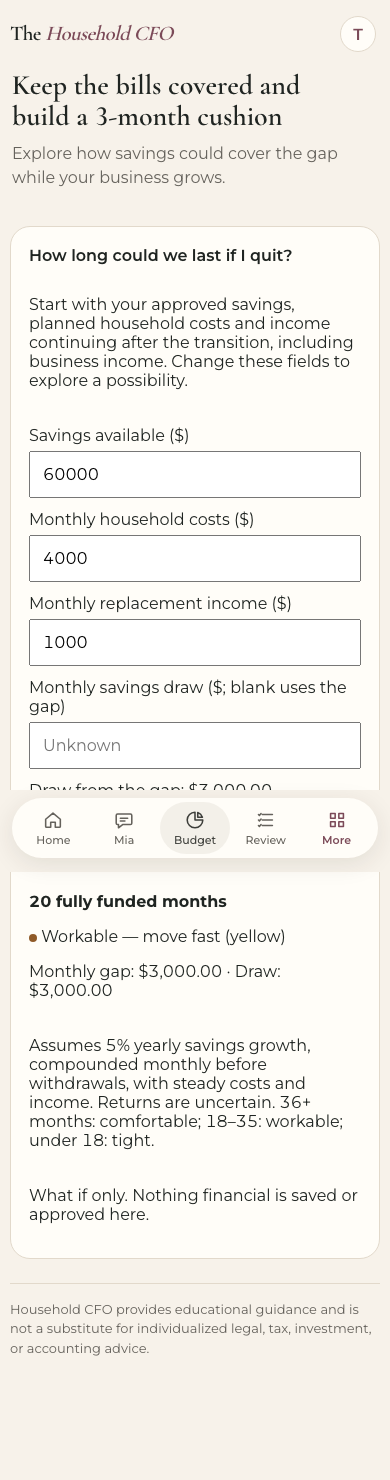
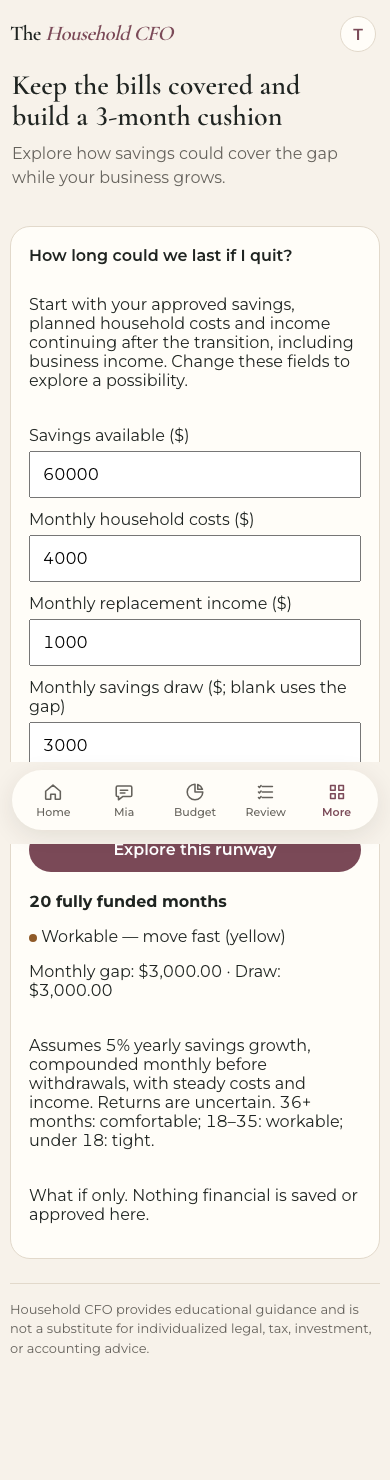
Keep the runway draw aligned with the participant's what-if inputs
Derive the savings draw from edited costs and replacement income until the
participant deliberately overrides it, preserving an explicit zero. Keep
Mia's transition guidance in chat so it cannot recommend a disabled tool.

Cover the normal edit journey, zero override and disabled-tool wording,
and refresh browser evidence against the production build.

Changed region(s): [[0.0615, 0.4973, 0.9231, 0.5905]]

diff --git a/web/src/components/FinanceScenarios.test.tsx b/web/src/components/FinanceScenarios.test.tsx
@@ -15,7 +15,7 @@ test('draw prefills from computed gap; edits use read-only scenario GET', async 
   fireEvent.change(screen.getByLabelText(/Savings available/), { target: { value: '70000' } })
   fireEvent.click(screen.getByRole('button', { name: 'Explore this runway' }))
   await waitFor(() => expect(screen.getByText('25 fully funded months')).toBeTruthy())
-  expect(api.fetchPrivateJson).toHaveBeenCalledWith('/api/v1/optionality?scenario=1&savings_cents=7000000&monthly_costs_cents=400000&replacement_income_cents=100000&monthly_draw_cents=300000')
+  expect(api.fetchPrivateJson).toHaveBeenCalledWith('/api/v1/optionality?scenario=1&savings_cents=7000000&monthly_costs_cents=400000&replacement_income_cents=100000')
 })
 test('unknowns do not render as zero and invalid input never requests', () => {
   render(<CfoScenarios initial={filter} />)
@@ -32,4 +32,22 @@ test('request failure preserves inputs and offers recovery', async () => {
   fireEvent.click(screen.getByRole('button', { name: 'Split this windfall' }))
   await waitFor(() => expect(screen.getByRole('alert').textContent).toMatch(/Try again/))
   expect((screen.getByLabelText(/Windfall amount/) as HTMLInputElement).value).toBe('123.45')
+})
+
+test('default draw follows edited costs and income while a deliberate zero override stays zero', async () => {
+  api.fetchPrivateJson.mockResolvedValue(runway)
+  render(<OptionalityScenario initial={{ ...runway, inputs: { ...runway.inputs, monthly_costs_cents: 439000, replacement_income_cents: 0 }, monthly_gap_cents: 439000, monthly_draw_cents: 439000 }} />)
+  const draw = screen.getByLabelText(/Monthly savings draw/) as HTMLInputElement
+  expect(draw.value).toBe('4390')
+  fireEvent.change(screen.getByLabelText(/Monthly household costs/), { target: { value: '4000' } })
+  fireEvent.change(screen.getByLabelText(/Monthly replacement income/), { target: { value: '1000' } })
+  expect(draw.value).toBe('3000')
+  fireEvent.click(screen.getByRole('button', { name: 'Explore this runway' }))
+  await waitFor(() => expect(api.fetchPrivateJson).toHaveBeenCalledWith('/api/v1/optionality?scenario=1&savings_cents=6000000&monthly_costs_cents=400000&replacement_income_cents=100000'))
+  await waitFor(() => expect(screen.getByRole('button', { name: 'Explore this runway' }).hasAttribute('disabled')).toBe(false))
+  fireEvent.change(draw, { target: { value: '0' } })
+  fireEvent.change(screen.getByLabelText(/Monthly household costs/), { target: { value: '5000' } })
+  expect(draw.value).toBe('0')
+  fireEvent.click(screen.getByRole('button', { name: 'Explore this runway' }))
+  await waitFor(() => expect(api.fetchPrivateJson).toHaveBeenLastCalledWith('/api/v1/optionality?scenario=1&savings_cents=6000000&monthly_costs_cents=500000&replacement_income_cents=100000&monthly_draw_cents=0'))
 })

diff --git a/web/src/components/FinanceScenarios.tsx b/web/src/components/FinanceScenarios.tsx
@@ -92,11 +92,15 @@ export function OptionalityScenario({ initial }: { initial: RunwayScenario }) {
   const [savings, setSavings] = useState(initialMoney(initial.inputs.savings_cents))
   const [costs, setCosts] = useState(initialMoney(initial.inputs.monthly_costs_cents))
   const [income, setIncome] = useState(initialMoney(initial.inputs.replacement_income_cents))
-  const [draw, setDraw] = useState(initialMoney(initial.monthly_draw_cents))
+  const [drawOverride, setDrawOverride] = useState<string | null>(null)
+  const costCents = cents(costs)
+  const incomeCents = cents(income)
+  const gap = costCents !== null && incomeCents !== null ? Math.max(costCents - incomeCents, 0) : null
+  const draw = drawOverride ?? initialMoney(gap)
   const [busy, setBusy] = useState(false)
   const [error, setError] = useState('')
   async function calculate() {
-    const values = { savings_cents: cents(savings), monthly_costs_cents: cents(costs), replacement_income_cents: cents(income), ...(draw !== '' ? { monthly_draw_cents: cents(draw) } : {}) }
+    const values = { savings_cents: cents(savings), monthly_costs_cents: cents(costs), replacement_income_cents: cents(income), ...(drawOverride !== null && drawOverride !== '' ? { monthly_draw_cents: cents(drawOverride) } : {}) }
     if (Object.values(values).some(value => value === null)) { setError('Enter each missing amount, with up to two decimal places.'); return }
     setBusy(true); setError('')
     try { setResult(await fetchPrivateJson<RunwayScenario>(`/api/v1/optionality?scenario=1&${new URLSearchParams(Object.entries(values).map(([key, value]) => [key, String(value)]))}`)) }
@@ -110,8 +114,8 @@ export function OptionalityScenario({ initial }: { initial: RunwayScenario }) {
       <Amount label="Savings available ($)" value={savings} onChange={setSavings} />
       <Amount label="Monthly household costs ($)" value={costs} onChange={setCosts} />
       <Amount label="Monthly replacement income ($)" value={income} onChange={setIncome} />
-      <Amount label="Monthly savings draw ($; blank uses the gap)" value={draw} onChange={setDraw} />
-      <p>Draw from the gap: {money(cents(costs) !== null && cents(income) !== null ? Math.max(cents(costs)! - cents(income)!, 0) : null)}</p>
+      <Amount label="Monthly savings draw ($; blank uses the gap)" value={draw} onChange={setDrawOverride} />
+      <p>Draw from the gap: {money(gap)}</p>
       <Button type="submit" disabled={busy}>Explore this runway</Button>
     </form>
     {error && <p role="alert">{error}</p>}

diff --git a/api/app/services/household_finance/mia_coach_answerer.rb b/api/app/services/household_finance/mia_coach_answerer.rb
@@ -1059,7 +1059,7 @@ module HouseholdFinance
       return "I cannot calculate your transition runway yet. Add the missing savings balances, planned household costs and replacement income first. Unknown is not $0. Nothing changed." unless result[:tone]
 
       duration = result[:sustainable] ? "savings do not run out in this model" : "#{result[:months]} fully funded months"
-      "Your transition runway is #{duration}: #{result[:label]}. The monthly gap is #{money(result[:monthly_gap_cents])}, with #{money(result[:monthly_draw_cents])} drawn from savings. This assumes 5% effective yearly savings growth, compounded monthly before withdrawals, and steady costs and replacement income. Returns are uncertain. Explore other amounts in Optionality; nothing changed."
+      "Your transition runway is #{duration}: #{result[:label]}. The monthly gap is #{money(result[:monthly_gap_cents])}, with #{money(result[:monthly_draw_cents])} drawn from savings. This assumes 5% effective yearly savings growth, compounded monthly before withdrawals, and steady costs and replacement income. Returns are uncertain. Ask me about another savings draw if you want to compare; nothing changed."
     end
 
     def emotional_stress_answer

diff --git a/api/test/services/household_finance_talun_tools_test.rb b/api/test/services/household_finance_talun_tools_test.rb
@@ -26,7 +26,11 @@ class HouseholdFinanceTalunToolsTest < ActiveSupport::TestCase
     assert_equal 439_000, runway[:monthly_draw_cents]
     assert_equal 0, runway[:months]
     mia = ->(message) { HouseholdFinance::MiaCoachAnswerer.new(household, message, ensure_plan: false).call }
-    assert_includes mia.call("How long could we last if I quit to run my business?"), "0 fully funded months"
+    transition_answer = mia.call("How long could we last if I quit to run my business?")
+    assert_includes transition_answer, "0 fully funded months"
+    hidden_tool_guidance = CohortExperience::MiaModuleGuidance.new(modules: [ { id: "optionality", enabled: false } ])
+    refute_includes hidden_tool_guidance.filter(transition_answer), "Optionality"
+    assert_equal transition_answer, hidden_tool_guidance.filter(transition_answer)
     assert_includes mia.call("What does it take to get to green?"), "Emergency fund: $830.84 monthly surplus"
     assert_includes mia.call("Can I afford $100?"), "CFO Filter:"
     assert_equal before, [ household.reload.attributes, household.accounts.map(&:attributes), household.income_sources.map(&:attributes),

diff --git a/docs/testing/cfo-filter-optionality.md b/docs/testing/cfo-filter-optionality.md
@@ -33,7 +33,7 @@ Fictional Talun fixture; offline local stack with `LOCAL_STACK_REPLAY=1`, API 34
 1. CFO spend: enter $100 against Talun's $1,010 base surplus; expect $910, updated target pace and surplus colour. Windfall calculation must preserve that spend result.
 2. Flip light: show all three independent targets, unknown-aware yellow/green surplus, total income and extra-income requirements.
 3. Windfall: enter $1,000; expect the emergency gap step to receive $1,000.
-4. Optionality: known $0 business income permits the initial $4,390 draw. Explore $60,000 savings, $4,000 costs and $1,000 replacement income using gap-derived draw; expect 20 fully funded months and yellow. Reload must restore approved $3,200 savings.
+4. Optionality: known $0 business income permits the initial $4,390 draw. Explore $60,000 savings, $4,000 costs and $1,000 replacement income without editing the draw; the prefill must follow the new $3,000 gap; expect 20 fully funded months and yellow. Reload must restore approved $3,200 savings.
 5. At both widths: no horizontal overflow or browser errors. Buttons stack full width. The results stay still and use live regions; no added motion.
 
 Run from repository root: `node web/scripts/check-finance-scenarios.mjs`, while the offline stack is running. Screenshots live under `docs/testing/evidence/cfo-filter-optionality/`. All five scenarios passed at both required Chromium sizes on the implementation content committed with this brief (screenshots refreshed after the unknown-business-income fix). The final PR/report records the head, automated counts and gate status. Screenshots alone do not establish acceptance.
@@ -41,3 +41,5 @@ Run from repository root: `node web/scripts/check-finance-scenarios.mjs`, while 
 ## Review and remaining work
 
 The lead reviews and merges. Obtain the original prototype, compare its correct sample calculations, resolve the spend/debt/growth interpretation above, and rerun affected tests and browser scenarios for any changes. No edit to `api/config/mia_personas.yml`. Netlify deploy previews remain off. A production web build is expected if this UI change is later merged.
+
+Independent advisory review of `b8a12d6` found two material issues: a stale default draw after editing costs/income, and Mia recommending a disabled Optionality destination. Both were fixed: the draw now follows current inputs until deliberately overridden (including explicit $0), and the answer keeps comparison guidance in chat. Component/Talun tests and the browser script cover the fixes. CodeRabbit was rate-limited, not a completed review. Final counts and CI state are recorded in the PR report.
